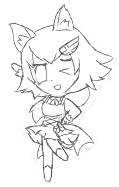
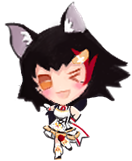
Add gaming mio animation & assets, update welcome message and styling

diff --git a/src/components/Prop/WelcomeStage/LoadingMio.css b/src/components/Prop/WelcomeStage/LoadingMio.css
@@ -1,26 +1,112 @@
 :root {
-    --loading-mio-frame1: url("../../../assets/prop/welcome/mio-sleep-1.png");
-    --loading-mio-frame2: url("../../../assets/prop/welcome/mio-sleep-2.png");
+    --gaming-mio-frame1A: url("../../../assets/prop/welcome/Mio\ gaming\ 1A.png");
+    --gaming-mio-frame1B: url("../../../assets/prop/welcome/Mio\ gaming\ 1B.png");
+    --gaming-mio-frame1C: url("../../../assets/prop/welcome/Mio\ gaming\ 1C.png");
+
+    --gaming-mio-frame3A: url("../../../assets/prop/welcome/Mio\ gaming\ 3A.png");
+    --gaming-mio-frame3B: url("../../../assets/prop/welcome/Mio\ gaming\ 3B.png");
+
+    --gaming-mio-frame4A: url("../../../assets/prop/welcome/Mio\ gaming\ 4A.png");
+    --gaming-mio-frame4B: url("../../../assets/prop/welcome/Mio\ gaming\ 4B.png");
+    --gaming-mio-frame4C: url("../../../assets/prop/welcome/Mio\ gaming\ 4C.png");
+
+    --gaming-mio-frame5A: url("../../../assets/prop/welcome/Mio\ gaming\ 5A.png");
+    --gaming-mio-frame5B: url("../../../assets/prop/welcome/Mio\ gaming\ 5B.png");
+    --gaming-mio-frame5C: url("../../../assets/prop/welcome/Mio\ gaming\ 5C.png");
 }
+
 .mio.loading {
-    width: 200px;
+    width: 155px;
     height: 180px;
 
-    animation: loading-mio-animate 2s ease-in infinite;
-    background-size: cover;    
+    animation-duration: 8s;
+    animation-name: gaming-mio-loop;
+    animation-timing-function: linear;
+    animation-iteration-count: infinite;
+
+    background-size: cover;
 }
 
-@keyframes loading-mio-animate {
-    0% {
-        background-image: var(--loading-mio-frame1);
+@keyframes gaming-mio-loop {
+
+    /*frame 1*/
+    0%, 10% {
+        background-image: var(--gaming-mio-frame1A);
     }
-    49% {
-        background-image: var(--loading-mio-frame1);
+
+    /**/
+    11%, 13% {
+        background-image: var(--gaming-mio-frame1B);
     }
-    50% {
-        background-image: var(--loading-mio-frame2);
+
+    /**/
+    14%, 16% {
+        background-image: var(--gaming-mio-frame1C);
     }
-    100% {
-        background-image: var(--loading-mio-frame2);
+
+    /**/
+    17%, 20% {
+        background-image: var(--gaming-mio-frame1B);
+    }
+
+    /*frame 3.1*/
+    21%, 30% {
+        background-image: var(--gaming-mio-frame3A);
+    }
+
+    /**/
+    31%, 40% {
+        background-image: var(--gaming-mio-frame3B);
+    }
+
+    /*frame 3.2*/
+    41%, 50% {
+        background-image: var(--gaming-mio-frame3A);
+    }
+
+    /**/
+    51%, 60% {
+        background-image: var(--gaming-mio-frame3B);
+    }
+
+    /*frame 4*/
+    61%, 70% {
+        background-image: var(--gaming-mio-frame4A);
+    }
+
+    /**/
+    71%, 73% {
+        background-image: var(--gaming-mio-frame4B);
+    }
+
+    /**/
+    74%, 76% {
+        background-image: var(--gaming-mio-frame4C);
+    }
+
+    /**/
+    77%, 80% {
+        background-image: var(--gaming-mio-frame4B);
+    }
+
+    /*frame 5*/
+    81%, 90% {
+        background-image: var(--gaming-mio-frame5A);
+    }
+
+
+    /**/
+    91%, 93% {
+        background-image: var(--gaming-mio-frame5B);
+    }
+
+    /**/
+    94%, 96% {
+        background-image: var(--gaming-mio-frame5C);
+    }
+
+    /**/
+    97%, 100% {
+        background-image: var(--gaming-mio-frame5B);
     }
 }

diff --git a/src/components/Prop/WelcomeStage/WelcomeMessage.js b/src/components/Prop/WelcomeStage/WelcomeMessage.js
@@ -7,7 +7,7 @@ class WelcomeMessage extends Component {
         return (
             <div className="welcome-message-container">
                 <div className="welcome-message">
-                    Happy 3rd Anniversary, Mio!!.
+                    Happy 1.000.000 Subscribers, Mio!!.
                 </div>
                 <div className="the-mion-family-tag">
                     The Mio-n Family~!

diff --git a/src/components/Prop/WelcomeStage/LoadingBar.css b/src/components/Prop/WelcomeStage/LoadingBar.css
@@ -11,6 +11,7 @@
     height: 17px;
     background-image: url("../../../assets/prop/welcome/loading-bar-progress.png");
     animation: progress-animate 5s linear 1;
+    box-shadow: 0 0 6px yellow;
 }
 
 @keyframes progress-animate {

diff --git a/src/components/Prop/MainStage/MioFaWithName.css b/src/components/Prop/MainStage/MioFaWithName.css
@@ -22,6 +22,7 @@
     font-size: 14px;
     overflow: hidden;
     white-space: nowrap;
+    text-shadow: 0 0 2px white;
 }
 
 .miofa-with-name > .miofa {

diff --git a/src/components/Prop/WelcomeStage/WelcomeMessage.css b/src/components/Prop/WelcomeStage/WelcomeMessage.css
@@ -35,6 +35,7 @@
     padding: 5px;
     font-size: 14px;
     white-space: nowrap;
+    text-shadow: 0 0 2px white;
 }
 
 .the-mion-family-tag img {

diff --git a/src/components/Prop/MioStage/Mio.css b/src/components/Prop/MioStage/Mio.css
@@ -3,7 +3,7 @@
 }
 
 #mio {
-    width: 120px;
+    width: 140px;
     height: 180px;
     animation-name: mio-animate;
     animation-duration: 1s;
